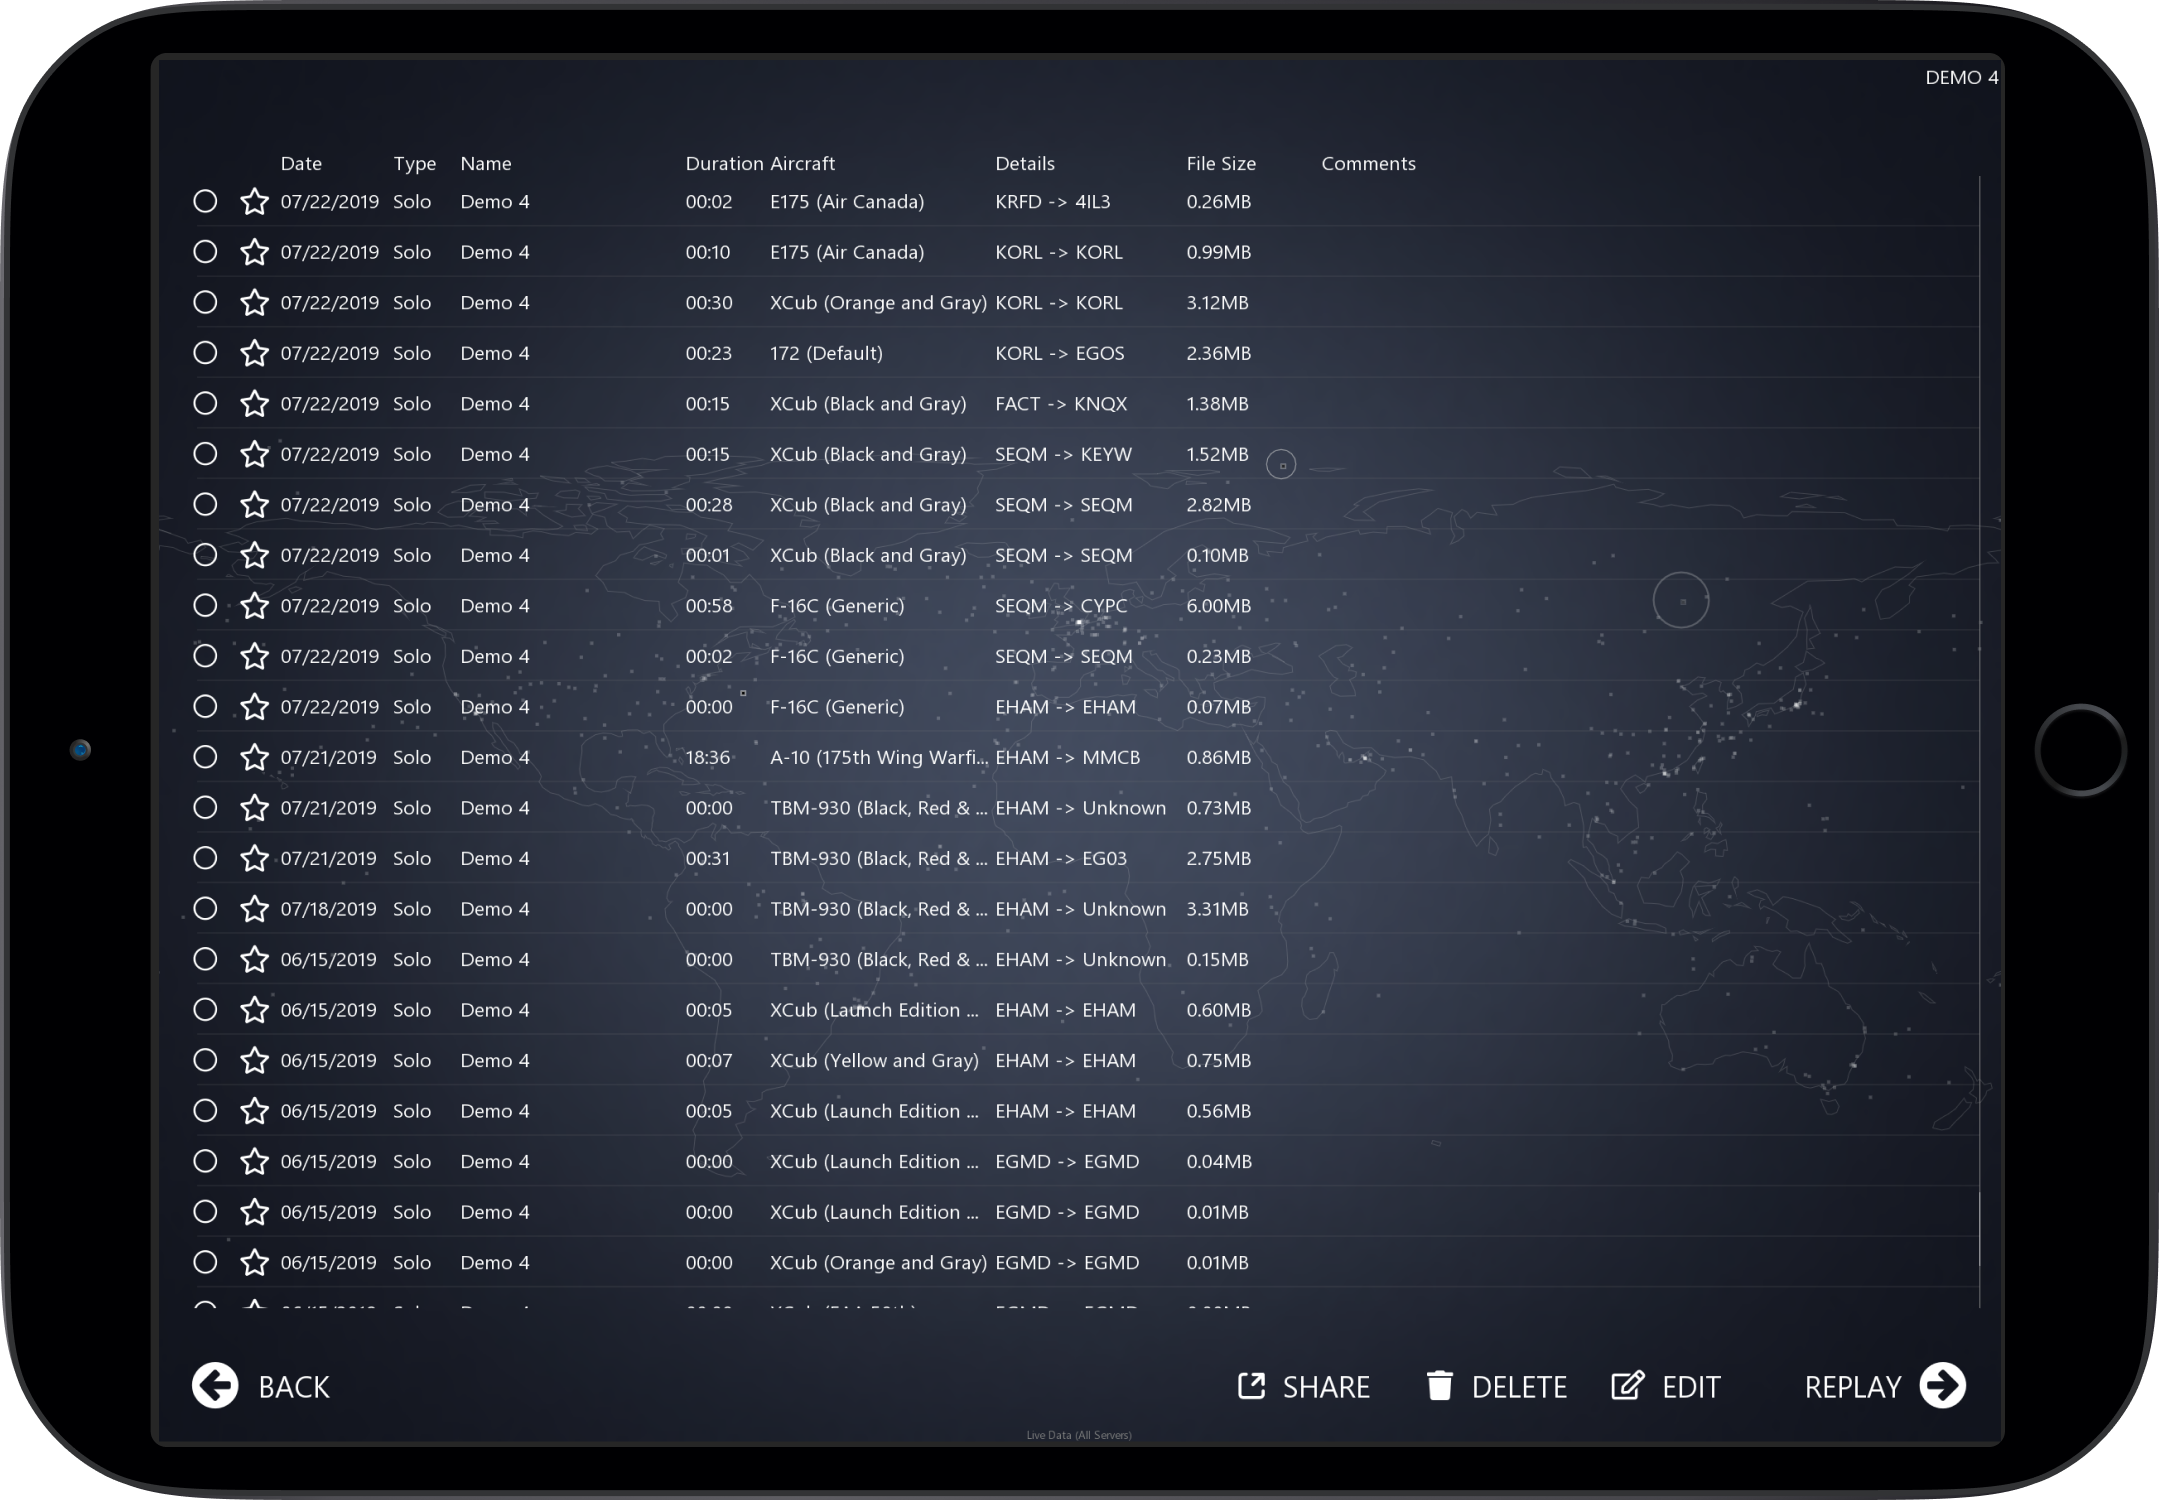
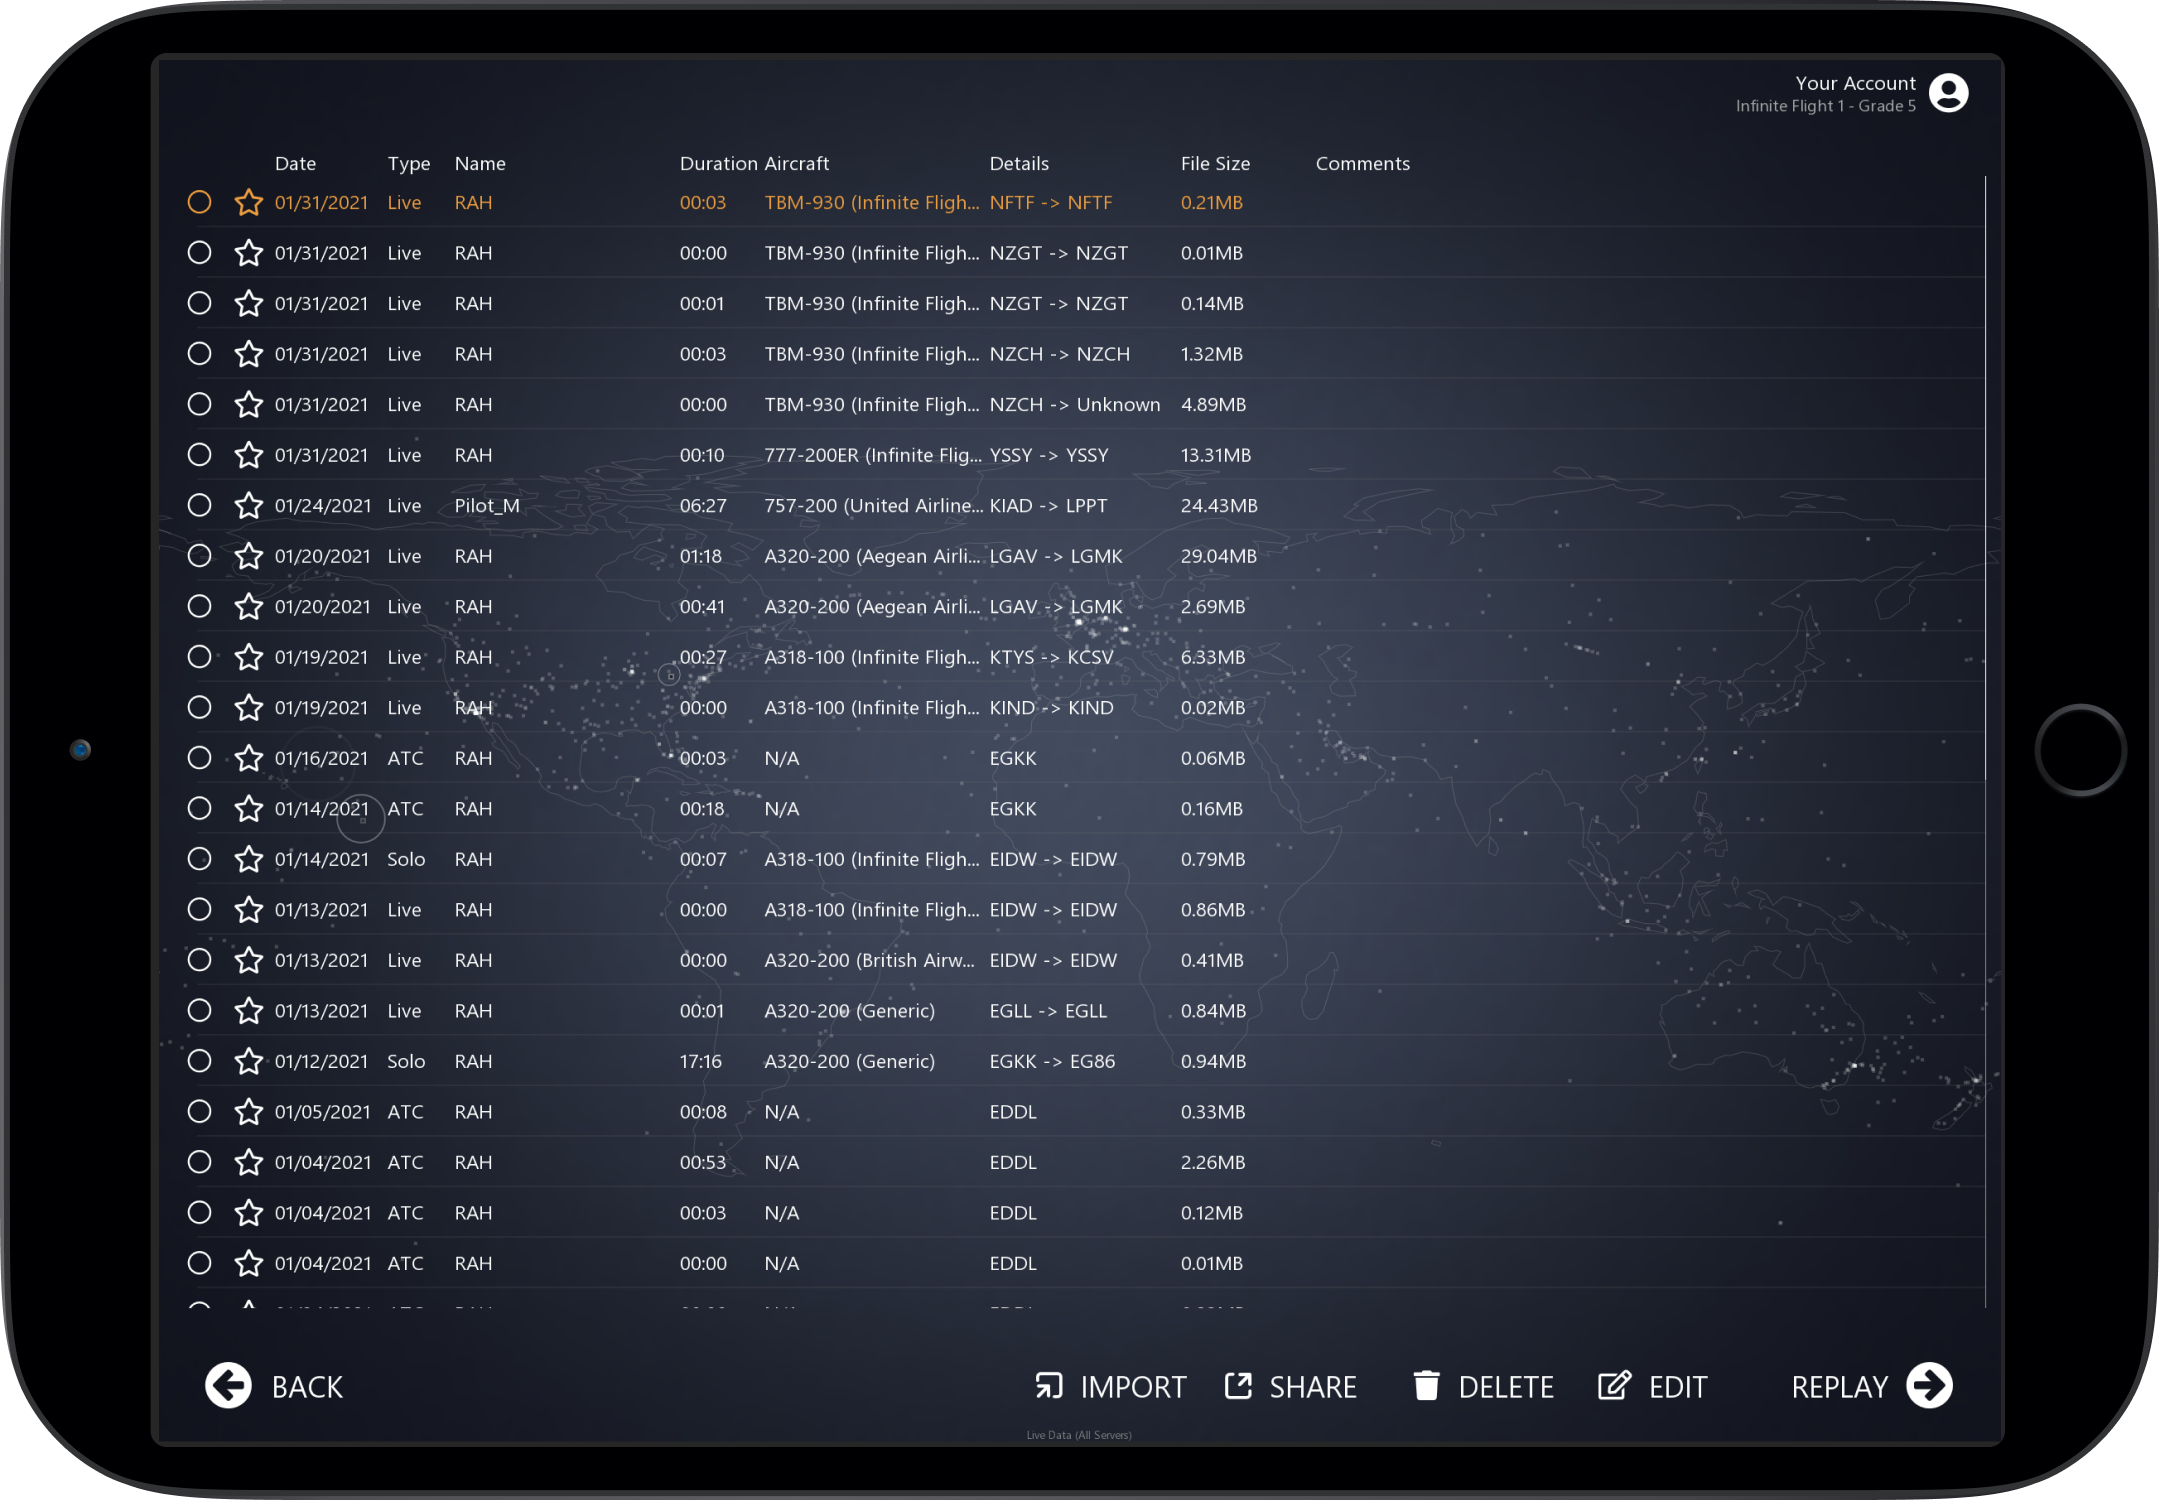
Staging Update
- [FIX] adjustments to Replay page of Getting Started Guide

diff --git a/getting-started/home-user-interface/replays.md b/getting-started/home-user-interface/replays.md
@@ -39,7 +39,7 @@ Step 1
 
 Step 2
 
-: Tap ‘Replay’
+: Tap "Replay"
 
  
 
@@ -187,22 +187,22 @@ You can also import replays into your device to view them. To do this follow the
 
 Step 1
 
-: Using your device, navigate to where the file you wish to import is located
+: Access your "Replays" 
 
 
 
 Step 2
 
-: Tap on the file to open it *(the technique to open may vary dependent on the device being used - in particular, some devices require you to press & hold, followed by selecting "Share" and then "Open in Infinite Flight")*
+: Select "Import". A window will open allowing you to navigate to where the file you wish to import is located
 
 
 
 Step 3
 
-: Infinite Flight will open and import the replay into your "Replays
+: Tap on the file to open it *(the technique to open may vary dependent on the device being used - in particular, some devices require you to press & hold, followed by selecting "Share" and then "Open in Infinite Flight")*
 
 
 
 Step 4
 
-: Access your "Replays" to view it
+: Infinite Flight will open (if not already) and import the replay into your "Replays"
